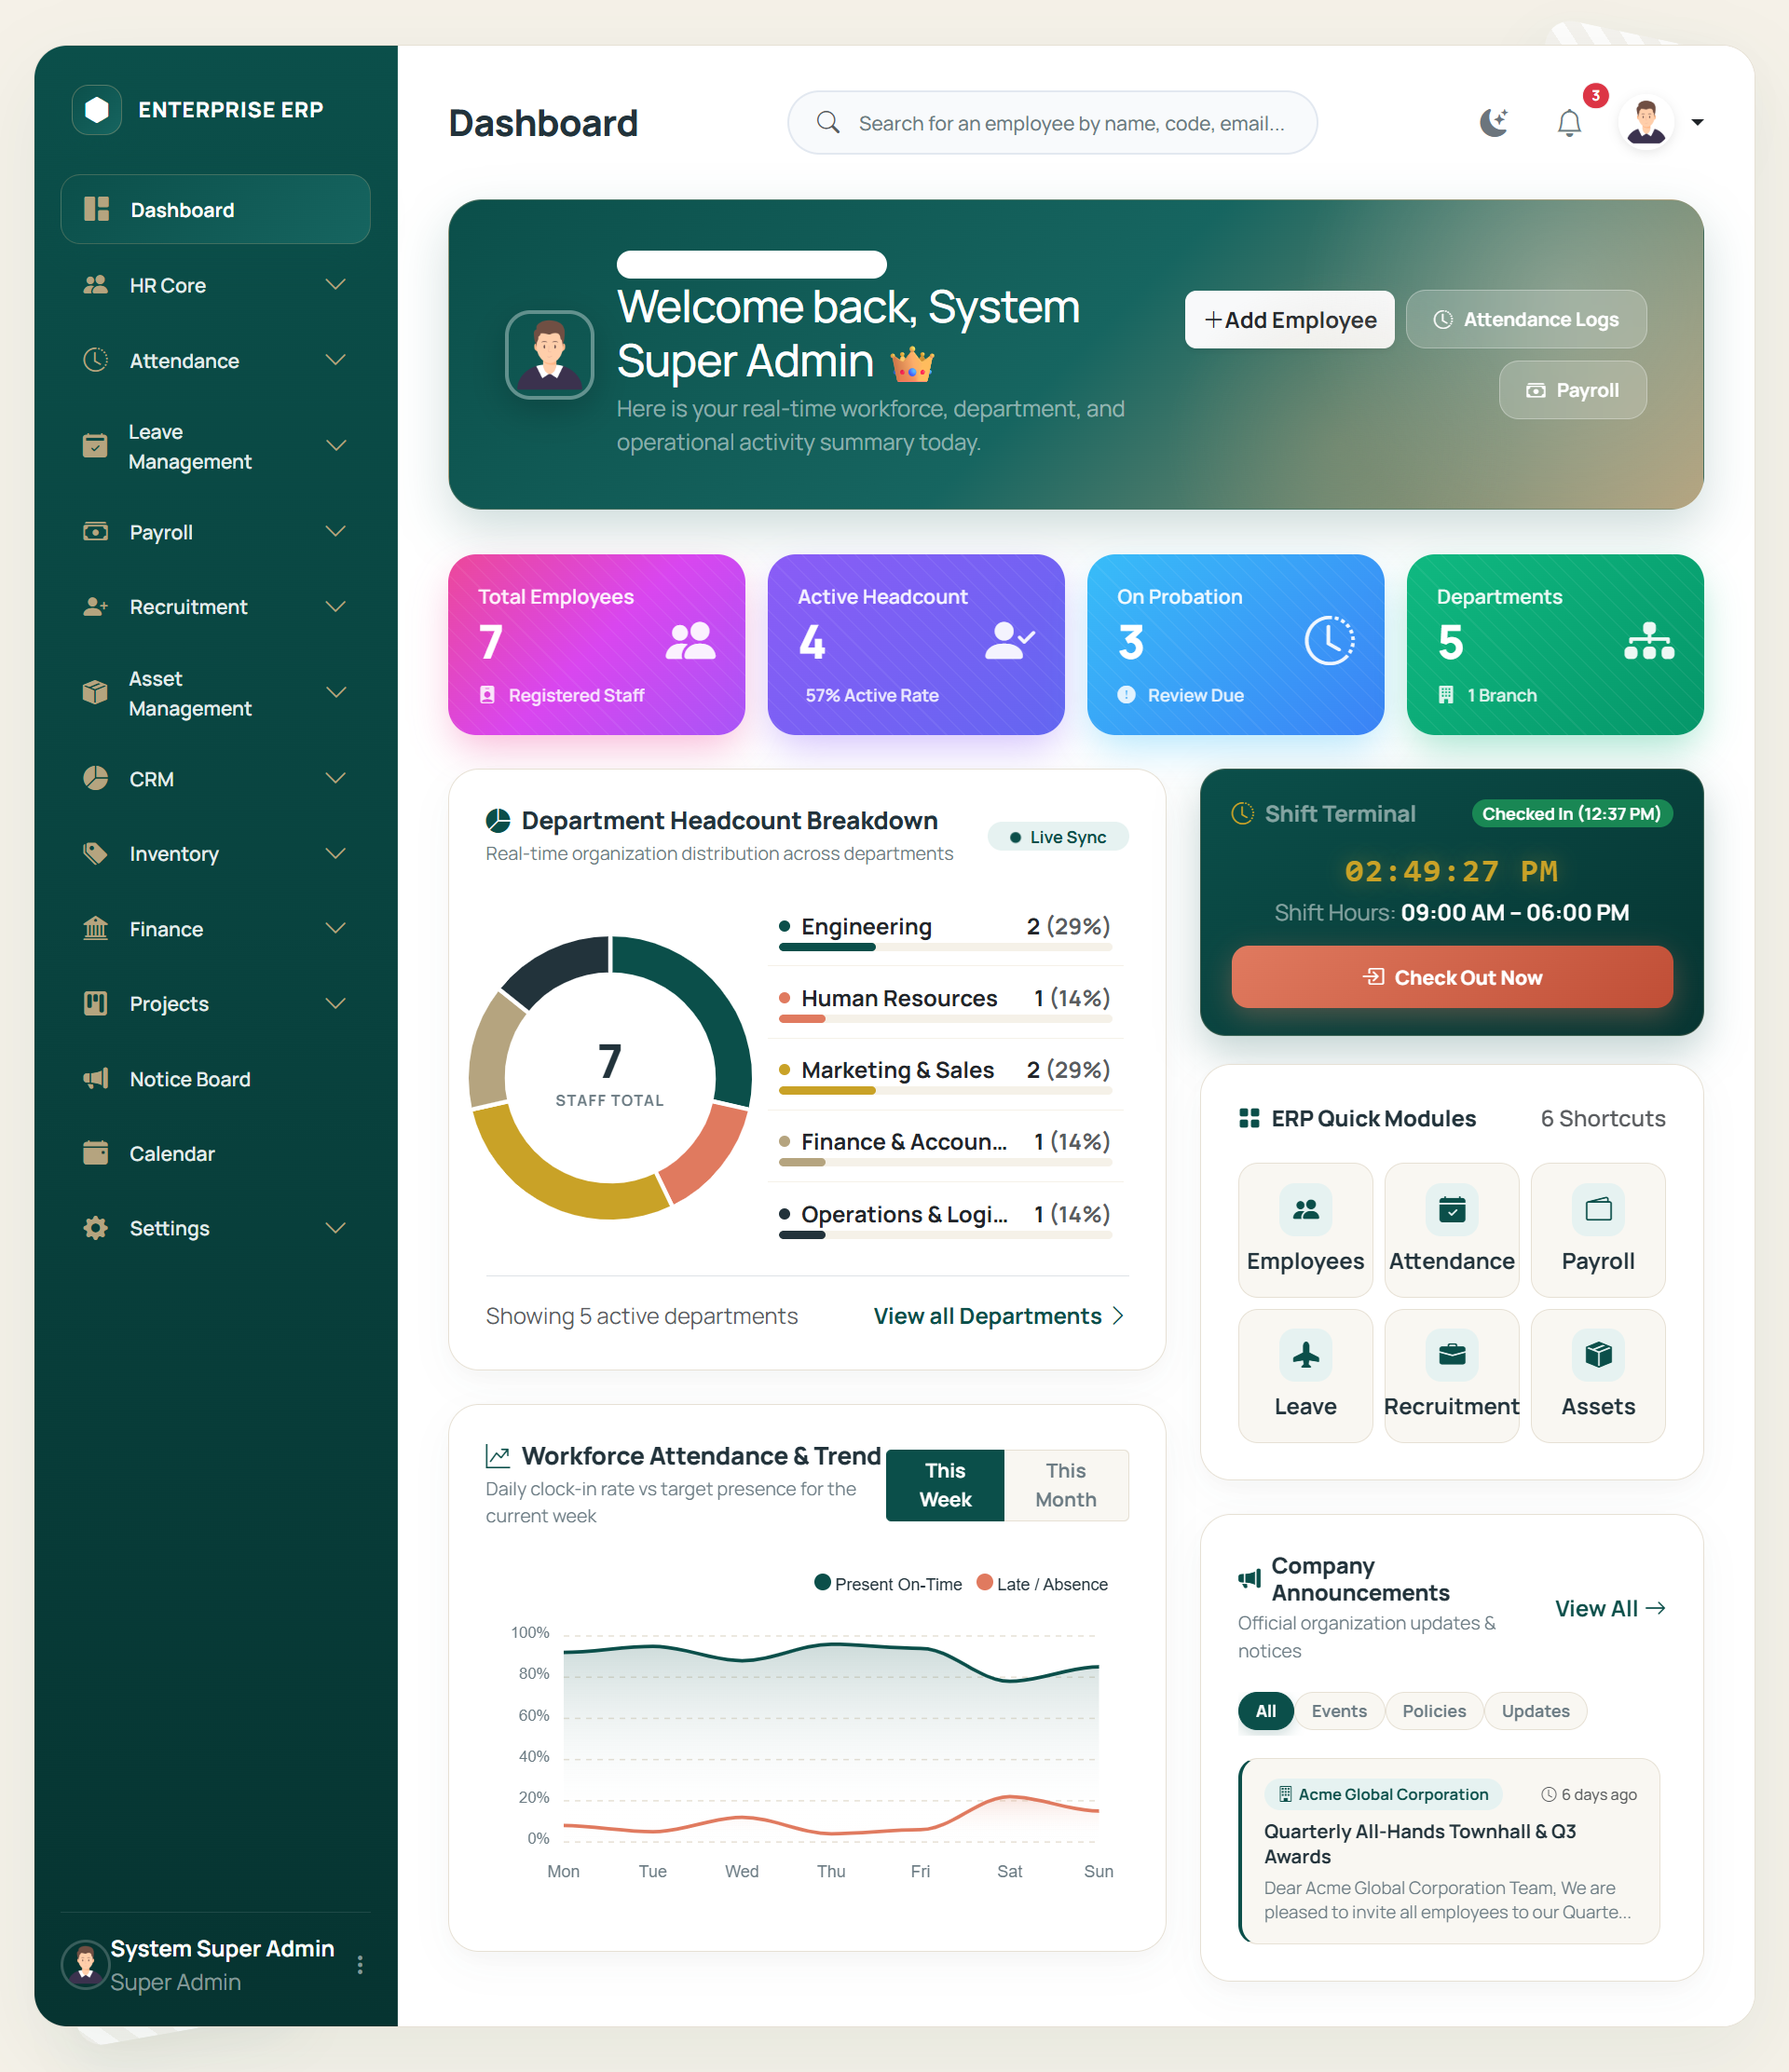
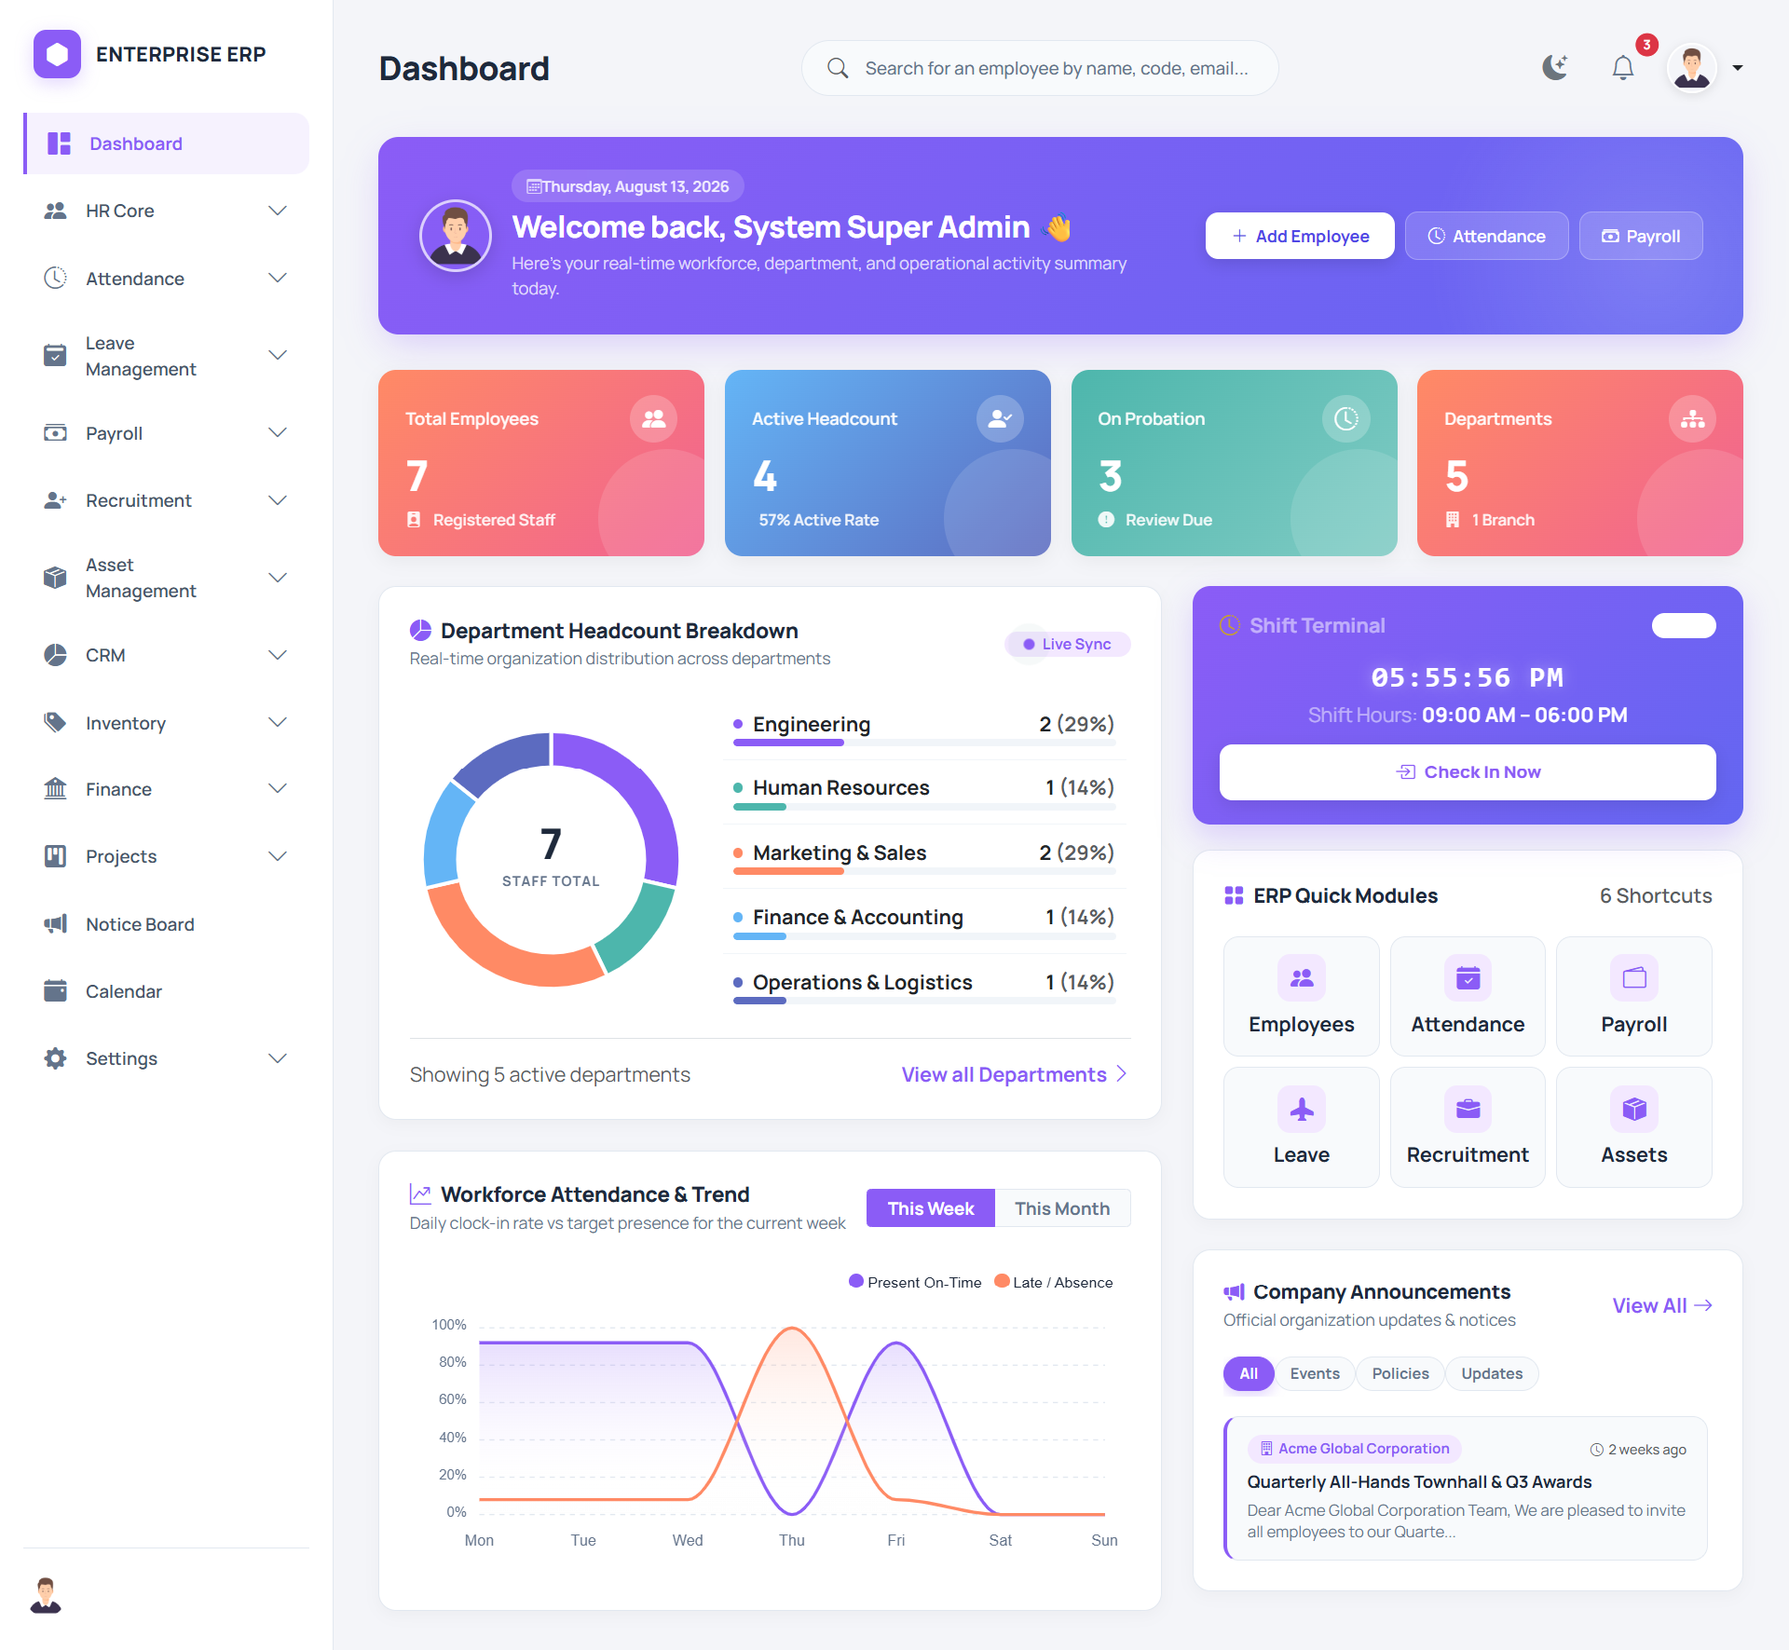
Updated at 22/8

diff --git a/src/data/projects.js b/src/data/projects.js
@@ -3,6 +3,11 @@ import kino from '../assets/kino.png';
 import nuvara from '../assets/Nuvara.png';
 import mentorsGlobal from '../assets/mentors_global.png';
 import erp from '../assets/erp.png';
+import fruitmart from '../assets/fruitmart.png';
+import crmEcommerce from '../assets/crm_ecommerce.png';
+import coffeeBlend from '../assets/coffee_blend.png';
+import hospitalManagement from '../assets/hospital_management.png';
+import onlineLearning from '../assets/online_learning.png';
 
 const rawProjectsData = [
   {
@@ -89,7 +94,7 @@ const rawProjectsData = [
       "Developed a custom admin dashboard for product and vendor management.",
       "Designed responsive UI for mobile and desktop users."
     ],
-    image: "https://i.postimg.cc/BQP7Pbdv/image.png",
+    image: fruitmart,
     tags: ["Laravel 10", "MySQL", "JavaScript", "Bootstrap 5"],
     githubLink: "https://github.com/34Sakib/Fruit-Page",
     demoLink: "#",
@@ -125,7 +130,7 @@ const rawProjectsData = [
       "Implemented secure authentication and role-based access for users and administrators.",
       "Integrated product inventory management, order tracking, and admin dashboard functionalities."
     ],
-    image: "https://i.postimg.cc/rFJVWtjt/image.png",
+    image: crmEcommerce,
     tags: ["Laravel 10", "React.js", "REST API", "MySQL", "Bootstrap 5"],
     githubLink: "https://github.com/34Sakib/CRM-E-Commerce",
     demoLink: "#",
@@ -142,7 +147,7 @@ const rawProjectsData = [
       "Developed admin dashboard for menu and content management.",
       "Designed responsive pages for menu, services, about, and contact sections."
     ],
-    image: "https://i.postimg.cc/C5htVd85/image.png",
+    image: coffeeBlend,
     tags: ["PHP", "MySQL", "JavaScript", "Bootstrap 5"],
     githubLink: "https://github.com/34Sakib/Coffee_Shop",
     demoLink: "#",
@@ -159,7 +164,7 @@ const rawProjectsData = [
       "Implemented secure registration pipelines and patient scheduling controls.",
       "Built clean dashboard control panels using Bootstrap 5 for administrators, doctors, and patients."
     ],
-    image: "https://i.postimg.cc/wjYPWY5W/image.png",
+    image: hospitalManagement,
     tags: ["PHP", "Laravel", "Bootstrap", "MySQL"],
     githubLink: "https://github.com/34Sakib/Hospital_Management",
     demoLink: "#",
@@ -176,7 +181,7 @@ const rawProjectsData = [
       "Configured secure JWT role-based authentication guards.",
       "Structured entity relationships and database operations with PostgreSQL using TypeORM."
     ],
-    image: "https://i.postimg.cc/sfBpvQFW/Screenshot-2025-06-04-155348.png",
+    image: onlineLearning,
     tags: ["TypeScript", "NestJS", "PostgreSQL", "TypeORM"],
     githubLink: "https://github.com/34Sakib/Online-Learning-System",
     demoLink: "#",
